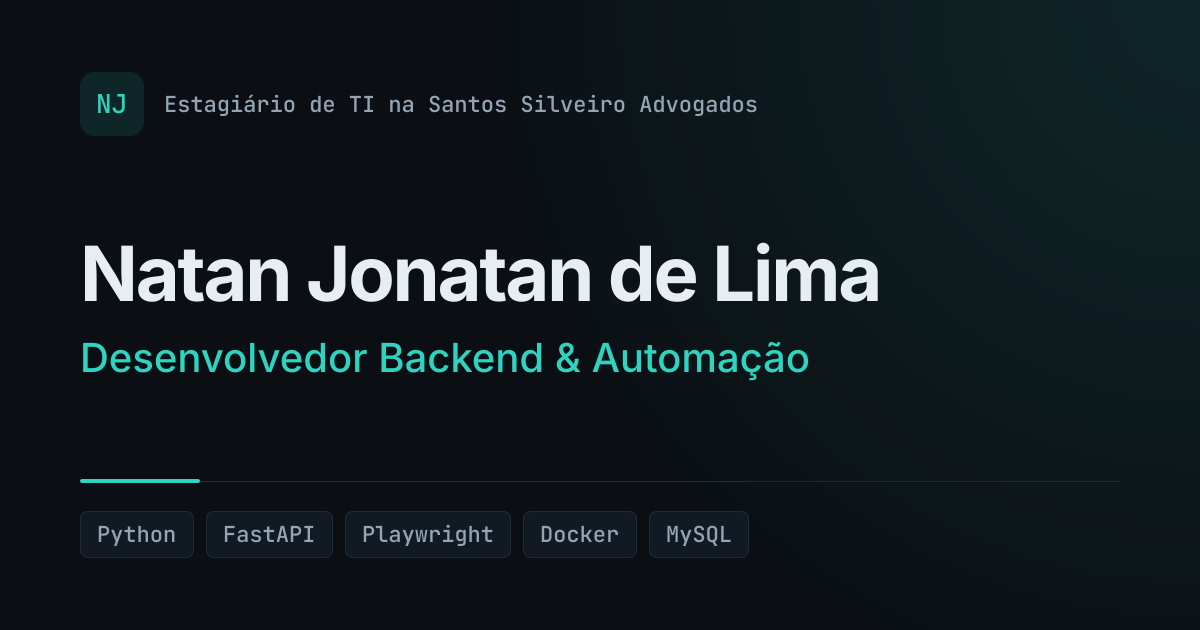
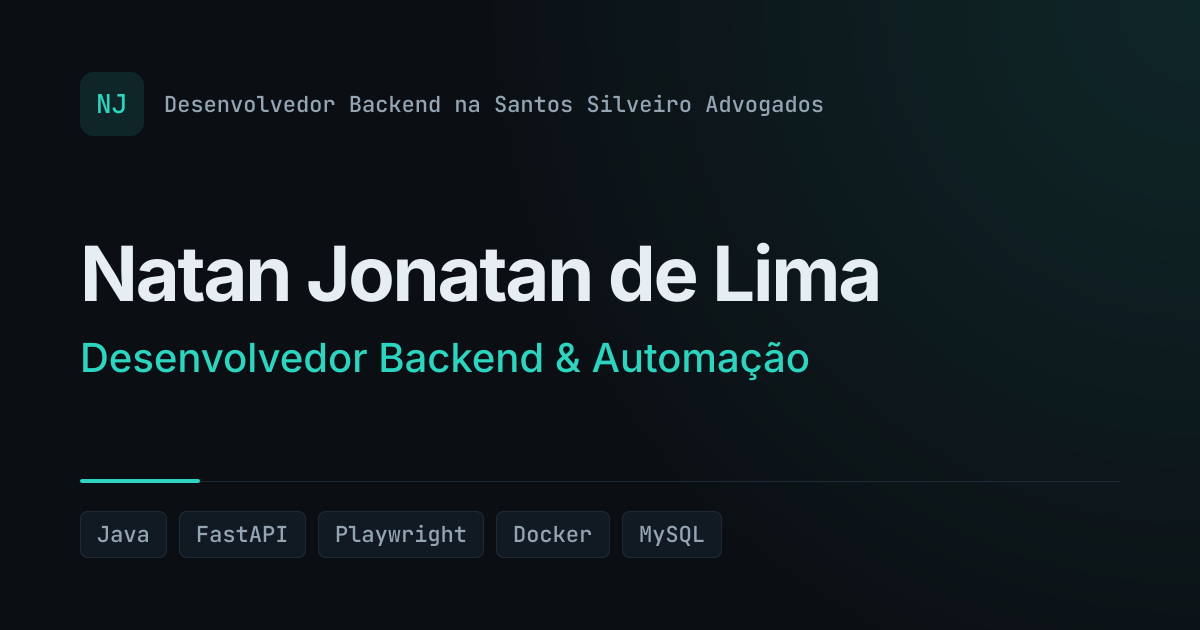
Atualiza o posicionamento: desenvolvedor backend com foco em Java
- Cargo atual: Desenvolvedor Backend na Santos Silveiro Advogados
  (hero, Sobre, og-image e meta description); remove menções a estágio
- Sobre: Python em produção e especialização em Java e Spring Boot
- Stack: Java primeiro em Linguagens e novo grupo "Estudando agora"
  (Java, Spring Boot, IntelliJ IDEA) com badge de contorno
- og-image regenerada; o grupo em estudo fica fora das tags dela

Changed region(s): [[0.1233, 0.1508, 0.7092, 0.181], [0.2775, 0.8143, 0.6167, 0.8746], [0.0617, 0.8143, 0.2467, 0.8746]]

diff --git a/src/data/site.ts b/src/data/site.ts
@@ -12,9 +12,9 @@ export const site = {
     'Construo serviços e automações em Python que resolvem processos repetitivos — de microsserviços com filas a deploy em VPS Linux.',
   // Usada na meta description e no Open Graph
   descricao:
-    'Portfólio de Natan Jonatan de Lima, desenvolvedor backend focado em Python, automação de portais e arquitetura de microsserviços.',
+    'Portfólio de Natan Jonatan de Lima, desenvolvedor backend na Santos Silveiro Advogados. Python em produção, com especialização em Java e Spring Boot.',
   // Cargo atual, exibido no topo do hero
-  cargoAtual: 'Estagiário de TI na Santos Silveiro Advogados',
+  cargoAtual: 'Desenvolvedor Backend na Santos Silveiro Advogados',
   // Formação, exibida na seção Sobre
   formacao: 'Sistemas de Informação — Universidade Positivo',
 
@@ -34,22 +34,25 @@ export const site = {
 export const sobre = {
   // Parágrafos da seção "Sobre". Cada item é um <p>.
   paragrafos: [
-    'Sou estagiário de TI na Santos Silveiro Advogados, onde desenvolvo automações em Python para portais governamentais e cuido da infraestrutura — VPS, Docker e deploy. Na prática, isso significa transformar tarefas manuais e repetitivas do escritório em serviços que rodam sozinhos.',
-    'Curso Sistemas de Informação na Universidade Positivo e estudo Java por conta própria. Meu interesse está em backend, automação e arquitetura de microsserviços: entender como separar responsabilidades, lidar com falhas e manter sistemas rodando de forma previsível.',
+    'Sou desenvolvedor backend na Santos Silveiro Advogados, onde trabalho com Python em produção: automações para portais governamentais, microsserviços com filas e a infraestrutura que os mantém no ar — VPS, Docker e deploy. Na prática, isso significa transformar tarefas manuais e repetitivas do escritório em serviços que rodam sozinhos.',
+    'Estou me especializando em Java e Spring Boot, a stack de que mais gosto e onde quero focar minha carreira. Curso Sistemas de Informação na Universidade Positivo, e meu interesse está em backend e arquitetura de microsserviços: entender como separar responsabilidades, lidar com falhas e manter sistemas rodando de forma previsível.',
   ],
 } as const;
 
 export type CategoriaStack = {
   categoria: string;
   itens: readonly string[];
+  /** true = o que está sendo estudado agora; aparece com badge de contorno */
+  estudando?: boolean;
 };
 
 export const stack: readonly CategoriaStack[] = [
-  { categoria: 'Linguagens', itens: ['Python', 'Java', 'SQL'] },
+  { categoria: 'Linguagens', itens: ['Java', 'Python', 'SQL'] },
   { categoria: 'Backend', itens: ['FastAPI', 'RabbitMQ'] },
   { categoria: 'Automação', itens: ['Playwright', 'nodriver'] },
   { categoria: 'Infra', itens: ['Docker', 'Docker Compose', 'Nginx', 'Linux/VPS'] },
   { categoria: 'Bancos', itens: ['MySQL', 'SQLite'] },
+  { categoria: 'Estudando agora', itens: ['Java', 'Spring Boot', 'IntelliJ IDEA'], estudando: true },
 ] as const;
 
 export const navegacao = [
